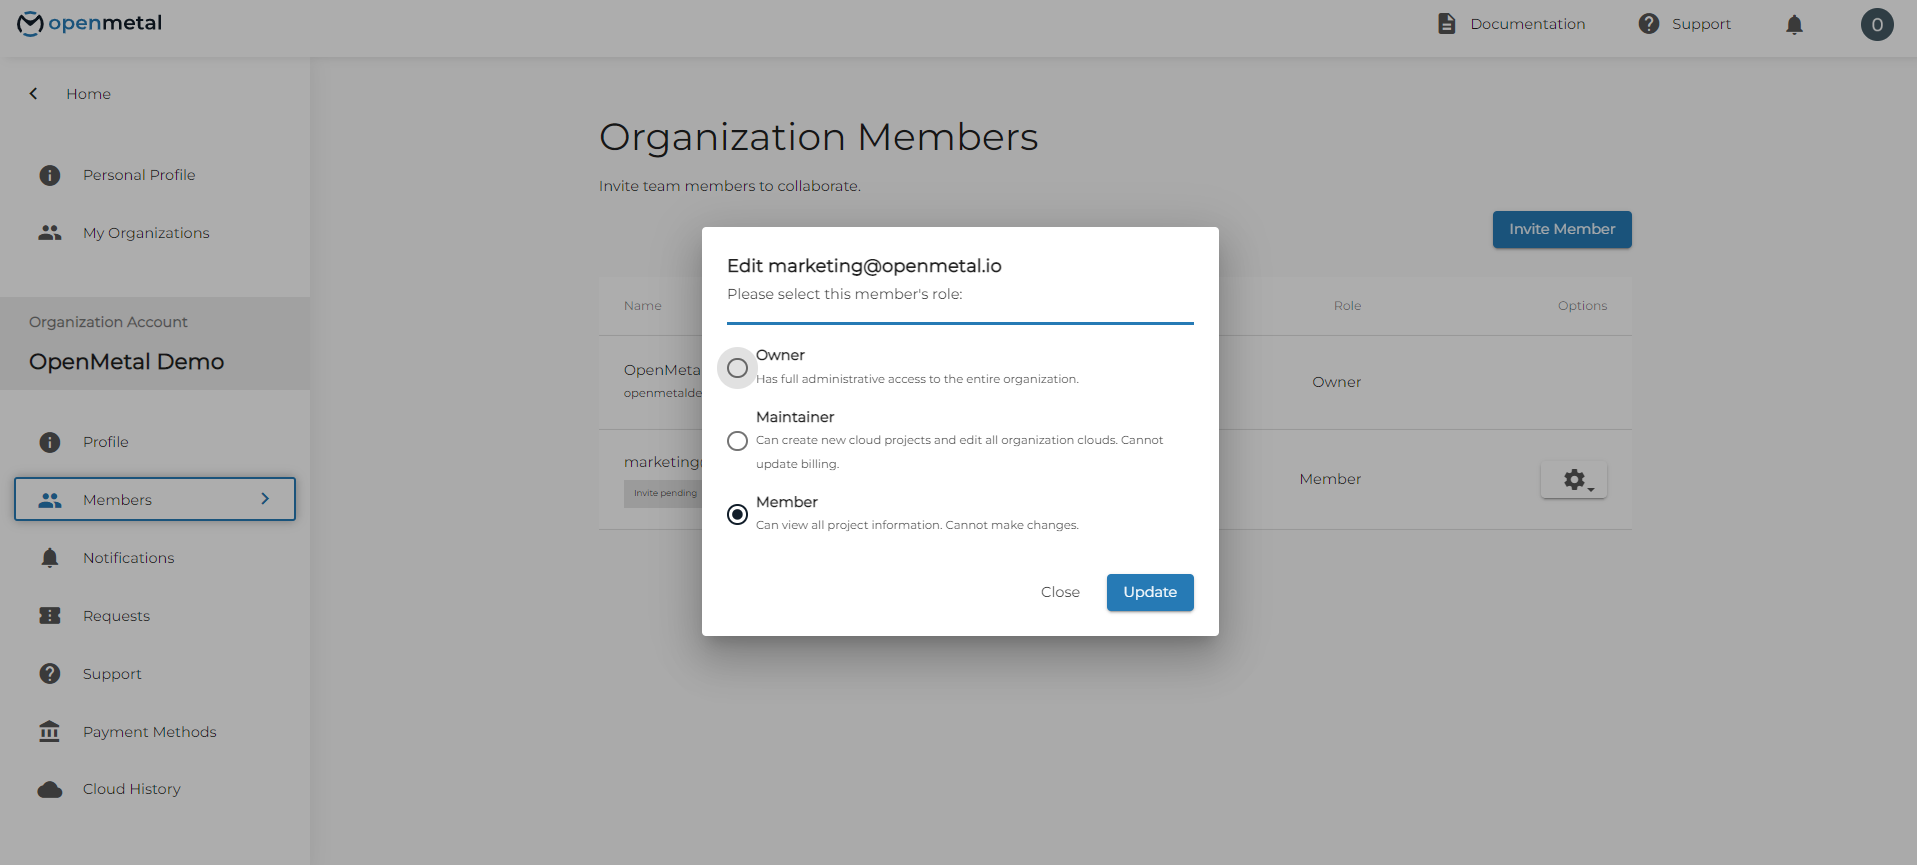
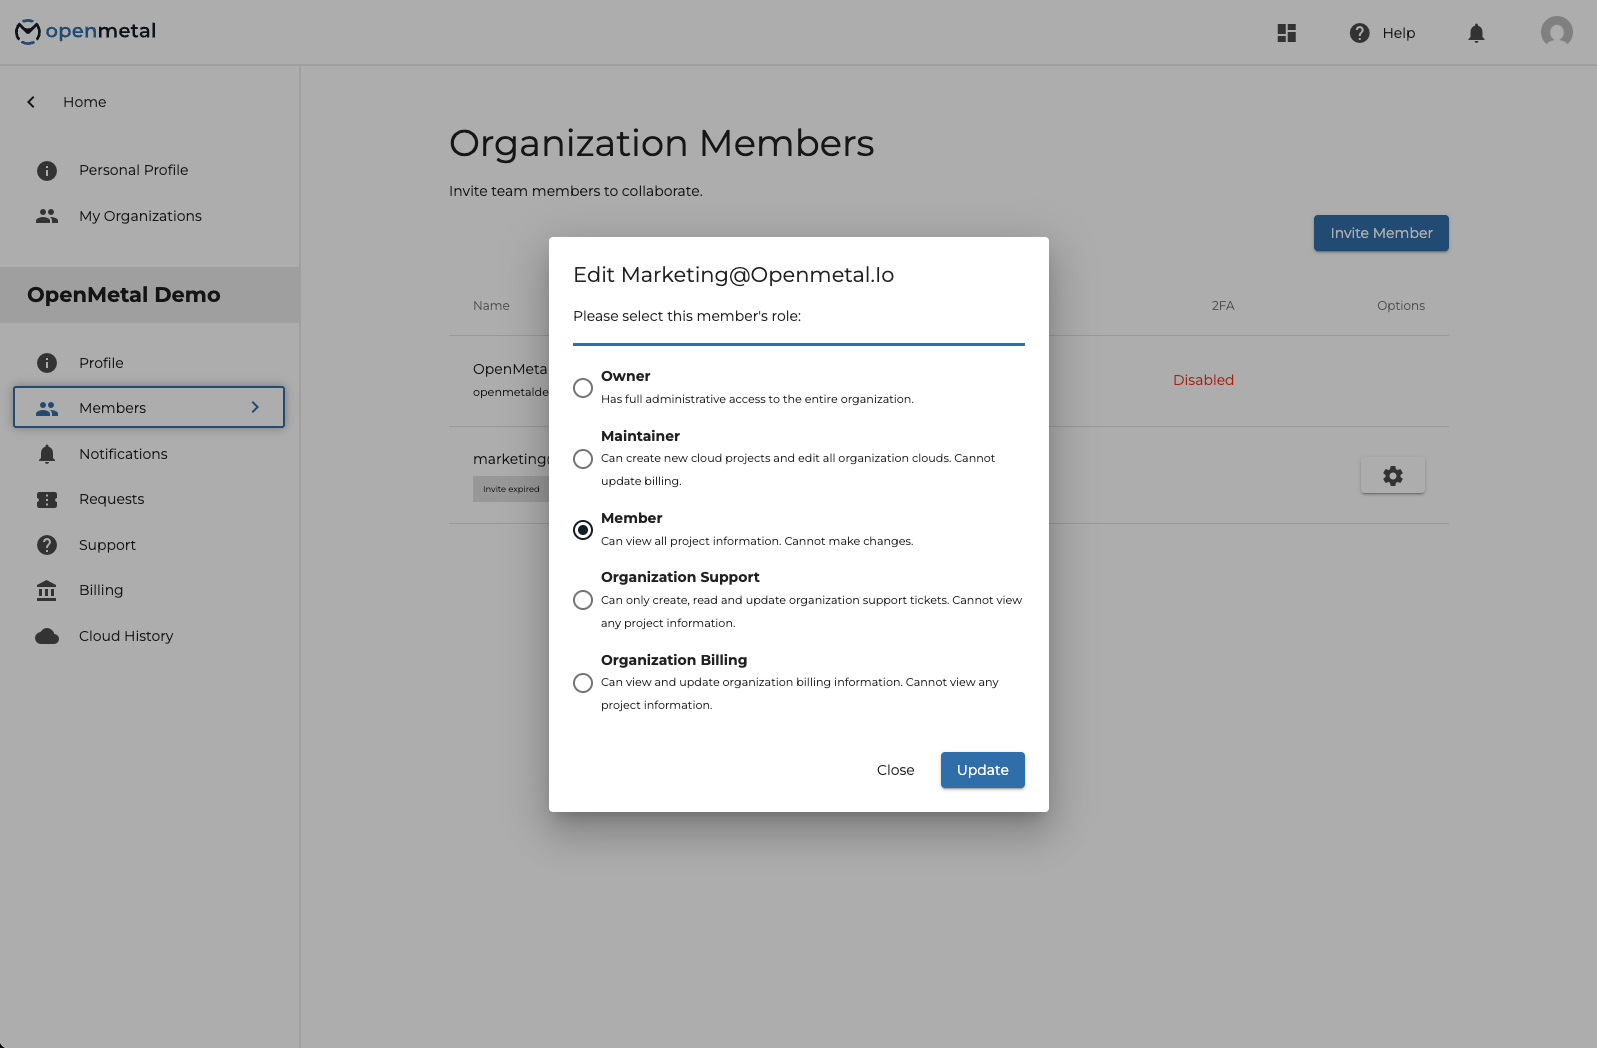
Update org roles

diff --git a/docs/openmetal-central/creating-an-organization.md b/docs/openmetal-central/creating-an-organization.md
@@ -89,12 +89,13 @@ To manage the permissions for a member click the gear to the right of the
 member’s name. The drop-down menu associated with this gear will give you the
 option to **_Edit Permissions_** for this member.
 
-There are three options for permissions that you can extend to a member.
+There are five options for permissions that you can extend to a member.
 
-- An _Owner_ has full administrative access to the entire organization.
-- A _Maintainer_ can create new cloud projects and edit all organization clouds.
-  Maintainers cannot update billing.
-- A _Member_ can view all project information. They cannot make changes.
+- **Owner:** Has full administrative access to the entire organization.
+- **Maintainer:** Can create new cloud projects and edit all organization clouds.  Cannot update billing.
+- **Member:** Can view all project information. Cannot make changes.
+- **Organization Support:** Can only create, read and update organization support tickets. Cannot view any project information.
+- **Organization Billing:** Can view and update organization billing information. Cannot view any project information.
 
 ![OpenMetal Central Managing Member Permissions](images/organization5.png)
 
